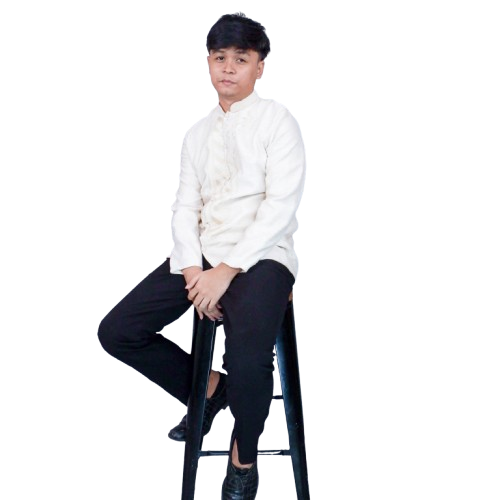
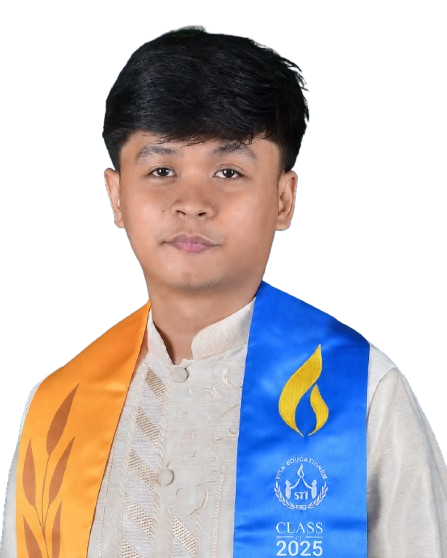
Updated title, projects, experience

diff --git a/app/components/contact-modal.vue b/app/components/contact-modal.vue
@@ -1,0 +1,161 @@
+<template>
+    <Teleport to="body">
+        <Transition name="modal">
+            <div v-if="open" class="fixed inset-0 z-[60] flex items-center justify-center p-4 sm:p-6" role="dialog"
+                aria-modal="true" aria-label="Contact details">
+                <!-- backdrop -->
+                <div class="absolute inset-0 bg-ink/30 backdrop-blur-md" @click="$emit('close')"></div>
+
+                <!-- panel -->
+                <div
+                    class="modal-panel relative w-full max-w-md overflow-hidden rounded-card border border-g200 bg-bg shadow-modal">
+                    <!-- header -->
+                    <div class="relative flex items-center justify-between gap-3 border-b border-g200 px-5 py-3">
+                        <div class="halftone pointer-events-none absolute inset-y-0 right-0 w-40 opacity-60"></div>
+
+                        <div class="relative flex items-center gap-2.5">
+                            <span class="pulse-dot h-1.5 w-1.5 rounded-full bg-ink"></span>
+                            <div class="flex flex-col leading-none">
+                                <span class="font-mono text-[9px] uppercase tracking-micro text-g400">get in
+                                    touch</span>
+                                <span class="mt-1 font-mono text-[11px] text-ink">Jonhyl Balsamo</span>
+                            </div>
+                        </div>
+
+                        <button type="button" aria-label="Close" @click="$emit('close')"
+                            class="relative flex h-7 w-7 items-center justify-center rounded-full bg-ink text-bg transition-opacity hover:opacity-80">✕</button>
+                    </div>
+
+                    <!-- body -->
+                    <div class="px-5 py-5">
+                        <p class="max-w-sm font-montserrat text-sm leading-[1.7] text-g500">
+                            Happy to talk about a role, a project, or a build. Reach me at either of these —
+                            I usually reply within a day.
+                        </p>
+
+                        <ul class="mt-6 space-y-3">
+                            <!-- email -->
+                            <li
+                                class="group flex items-center justify-between gap-3 rounded-input border border-g200 px-4 py-3 transition-colors hover:border-g300">
+                                <div class="min-w-0">
+                                    <span
+                                        class="block font-mono text-[9px] uppercase tracking-micro text-g400">email</span>
+                                    <a :href="`mailto:${email}`"
+                                        class="link-underline mt-1 block truncate font-mono text-[13px] text-ink">
+                                        {{ email }}
+                                    </a>
+                                </div>
+                                <button type="button" @click="copyEmail"
+                                    class="shrink-0 rounded-full border border-g200 px-3 py-1.5 font-mono text-[10px] uppercase tracking-micro text-g500 transition-colors hover:border-g300 hover:text-ink">
+                                    {{ copied ? 'copied' : 'copy' }}
+                                </button>
+                            </li>
+
+                            <!-- linkedin -->
+                            <li
+                                class="group flex items-center justify-between gap-3 rounded-input border border-g200 px-4 py-3 transition-colors hover:border-g300">
+                                <div class="min-w-0">
+                                    <span
+                                        class="block font-mono text-[9px] uppercase tracking-micro text-g400">linkedin</span>
+                                    <span class="mt-1 block truncate font-mono text-[13px] text-ink">
+                                        in/jonhyl-balsamo
+                                    </span>
+                                </div>
+                                <a :href="linkedin" target="_blank" rel="noopener noreferrer"
+                                    class="shrink-0 inline-flex items-center gap-1.5 rounded-full bg-ink px-3.5 py-1.5 font-mono text-[10px] uppercase tracking-micro text-bg transition-opacity hover:opacity-80">
+                                    open <span class="transition-transform">↗</span>
+                                </a>
+                            </li>
+                        </ul>
+                    </div>
+
+                    <!-- footer -->
+                    <div class="flex items-center justify-between gap-3 border-t border-g200 px-5 py-2.5">
+                        <span class="font-mono text-[9px] uppercase tracking-micro text-g400">open to work</span>
+                        <span
+                            class="hidden items-center gap-1.5 font-mono text-[9px] uppercase tracking-micro text-g400 sm:flex">
+                            <kbd class="rounded border border-g200 bg-g50 px-1.5 py-0.5 text-ink">esc</kbd> to close
+                        </span>
+                    </div>
+                </div>
+            </div>
+        </Transition>
+    </Teleport>
+</template>
+
+<script setup lang="ts">
+import { ref, watch, onUnmounted } from 'vue'
+
+const props = defineProps<{ open: boolean }>()
+const emit = defineEmits<{ close: [] }>()
+
+const email = 'balsthedeveloper@gmail.com'
+const linkedin = 'https://www.linkedin.com/in/jonhyl-balsamo-b41a93386'
+
+const copied = ref(false)
+let copyTimer: ReturnType<typeof setTimeout> | undefined
+
+const copyEmail = async () => {
+    try {
+        await navigator.clipboard.writeText(email)
+        copied.value = true
+        clearTimeout(copyTimer)
+        copyTimer = setTimeout(() => { copied.value = false }, 1600)
+    } catch {
+        // clipboard blocked (insecure context / permission) — the mailto link
+        // beside this button still works, so fail quietly
+    }
+}
+
+const onKeydown = (e: KeyboardEvent) => {
+    if (e.key === 'Escape') emit('close')
+}
+
+watch(() => props.open, (isOpen) => {
+    document.body.style.overflow = isOpen ? 'hidden' : ''
+    if (isOpen) {
+        window.addEventListener('keydown', onKeydown)
+    } else {
+        window.removeEventListener('keydown', onKeydown)
+        copied.value = false
+    }
+})
+
+onUnmounted(() => {
+    document.body.style.overflow = ''
+    window.removeEventListener('keydown', onKeydown)
+    clearTimeout(copyTimer)
+})
+</script>
+
+<style scoped>
+.modal-enter-active,
+.modal-leave-active {
+    transition: opacity 200ms ease;
+}
+
+.modal-enter-active .modal-panel,
+.modal-leave-active .modal-panel {
+    transition: transform 200ms cubic-bezier(0.16, 1, 0.3, 1);
+}
+
+.modal-enter-from,
+.modal-leave-to {
+    opacity: 0;
+}
+
+.modal-enter-from .modal-panel,
+.modal-leave-to .modal-panel {
+    transform: scale(0.95);
+}
+
+@media (prefers-reduced-motion: reduce) {
+
+    .modal-enter-active,
+    .modal-leave-active,
+    .modal-enter-active .modal-panel,
+    .modal-leave-active .modal-panel {
+        transition: none;
+    }
+}
+</style>

diff --git a/app/components/projects.vue b/app/components/projects.vue
@@ -110,16 +110,16 @@ const views = [
 ];
 
 const projects = [
-    { id: 1, title: 'Chade Inanag', description: 'A warm, appetite-stirring landing page for a beloved restaurant in Valencia, Bukidnon, built to make every visitor crave a seat at the table.', image: '/chadeinanag.jpg' },
-    { id: 2, title: 'GAB Matcha Bar', description: 'A calm, earthy landing page for a matcha bar in Valencia, Bukidnon, designed to feel as smooth and grounded as the drinks they serve.', image: '/gabmatcha.jpg' },
-    { id: 3, title: 'DC Cakes', description: 'A sweet, playful landing page for a cake shop in Bukidnon. Colorful, cheerful, and ready to turn browsers into buyers.', image: '/dccakes.jpg' },
-    { id: 4, title: 'Home Meals by Raf & Nika', description: 'A homey landing page for a Panabo City catering business, capturing the comfort of home-cooked meals served with love.', image: '/homemeals.jpg' },
-    { id: 5, title: 'Uni Lux', description: 'A bold, elegant landing page for a Metro Manila luxury bag brand. Minimal, refined, and built to elevate the product.', image: '/unilux.jpg' },
-    { id: 6, title: 'XNY Events & Food Services', description: 'A vibrant landing page for a Davao events and catering business, designed to turn special days into unforgettable ones.', image: '/xny.jpg' },
-    { id: 7, title: 'Lead Generation Specialist Portfolio', description: 'A sharp, conversion-focused portfolio for a lead-gen pro, showcasing the funnels, results, and strategy that drive real business growth.', image: '/leadgeneration.png' },
-    { id: 8, title: 'E-Voting System', description: 'A secure digital voting platform that swaps paper ballots for clean, transparent, and tamper-resistant elections, built for trust at scale.', image: '/evotingimg.png' },
-    { id: 9, title: 'Obiyen', description: 'Obiyen brings together essential business tools in one platform. Manage cookies, monitor SEO rankings, analyze websites and track performance across your digital channels - all from your mobile device.', image: '/obiyen.webp' },
-    { id: 10, title: 'Flexperience', description: 'My capstone project. A unified fitness platform connecting gym owners, trainers, and members, built to make managing workouts and clients feel effortless.', award: 'Best Capstone of the Year', image: '/flexperience.png' }
+    { id: 1, title: 'Goodstart International', description: 'A landing page website study-abroad consultancy business based in Davao City.', image: '/goodstart.png' },
+    { id: 2, title: 'Laagan Gear Rental', description: 'A landing page for an outdoor and hiking gear rental business based in Davao City.', image: '/laagan-gear-rental.jpg' },
+    { id: 3, title: 'Home Meals by Raf & Nika', description: 'A homey landing page for a Panabo City catering business.', image: '/homemeals.png' },
+    { id: 4, title: 'Flexperience', description: 'My capstone project. A unified fitness platform connecting gym owners, trainers, and members, built to make managing workouts and clients feel effortless.', award: 'Best Capstone of the Year', image: '/flexperience.png' },
+    { id: 5, title: 'Chade Inanag', description: 'A warm, appetite-stirring landing page for a beloved restaurant in Valencia, Bukidnon, built to make every visitor crave a seat at the table.', image: '/chadeinanag.jpg' },
+    { id: 6, title: 'GAB Matcha Bar', description: 'A calm, earthy landing page for a matcha bar in Valencia, Bukidnon, designed to feel as smooth and grounded as the drinks they serve.', image: '/gabmatcha.jpg' },
+    { id: 7, title: 'DC Cakes', description: 'A sweet, playful landing page for a cake shop in Bukidnon. Colorful, cheerful, and ready to turn browsers into buyers.', image: '/dccakes.jpg' },
+    { id: 8, title: 'Uni Lux', description: 'A bold, elegant landing page for a Metro Manila luxury bag brand. Minimal, refined, and built to elevate the product.', image: '/unilux.jpg' },
+    { id: 9, title: 'XNY Events & Food Services', description: 'A vibrant landing page for a Davao events and catering business, designed to turn special days into unforgettable ones.', image: '/xny.jpg' },
+    { id: 10, title: 'Obiyen', description: 'Obiyen brings together essential business tools in one platform. Manage cookies, monitor SEO rankings, analyze websites and track performance across your digital channels - all from your mobile device.', image: '/obiyen.webp' },
 ];
 
 // Linear carousel: viewed cards stack to the LEFT, upcoming to the RIGHT.

diff --git a/server/utils/portfolio.ts b/server/utils/portfolio.ts
@@ -22,9 +22,11 @@ using only the information below.
 # Jonhyl Balsamo, profile
 
 - Full name: Jonhyl Balsamo (goes by JJ)
-- Role: Full-Stack Web Developer
+- Role: Full-Stack Web/Mobile & AI Developer
 - Summary: A full-stack developer building production SaaS platforms, from
-  responsive front-end interfaces to the APIs and databases behind them.
+  responsive front-end interfaces to the APIs and databases behind them, plus
+  the LLM/AI features layered on top, from chat assistants to AI-driven
+  workflows.
 - Based in the Philippines (Davao region); works for a Danish company remotely.
 - Contact / links:
   - GitHub: https://github.com/bals04
@@ -41,6 +43,13 @@ Responsible for integrating backend functionality with the frontend, and for
 designing and developing intuitive, user-friendly interfaces to ensure a
 seamless user experience.
 Technologies: Laravel, Nuxt.js, MySQL.
+
+## UI/UX Developer (Part-time), Caremed Healthcare Group, United Kingdom (December 2025, remote)
+A part-time, remote side role improving the overall UI/UX of Caremed's
+established Shopify website. Refined layouts, visual consistency, and user
+flows, and fixed UI issues across the storefront for a cleaner, more usable
+shopping experience.
+Technologies: Shopify, Liquid, CSS.
 
 ## Front-End Web Developer Intern, AWORK, Denmark (January 2025 – June 2025)
 Assisted in building and enhancing the CitizenOne website using Nuxt.js,
@@ -73,12 +82,13 @@ capstone project excellence.
 6. **XNY Events & Food Services**: A vibrant landing page for a Davao events
    and catering business, designed to turn special days into unforgettable
    ones.
-7. **Lead Generation Specialist Portfolio**: A sharp, conversion-focused
-   portfolio for a lead-gen pro, showcasing the funnels, results, and strategy
-   that drive real business growth.
-8. **E-Voting System**: A secure digital voting platform that swaps paper
-   ballots for clean, transparent, and tamper-resistant elections, built for
-   trust at scale.
+7. **Laagan Gear Rental**: A landing page for an outdoor and hiking gear
+   rental business based in Davao.
+8. **Goodstart International**: A calm, reassuring site for Goodstart
+   International, a Davao City career consultancy and student-visa firm. It
+   walks aspiring students from a free consultation through course matching,
+   documents, and visa applications, to studying in Australia, New Zealand,
+   Europe, the USA, or Canada.
 9. **Flexperience**: Jonhyl's capstone project, and winner of **Best Capstone
    of the Year**. A unified fitness platform connecting gym owners, trainers,
    and members, built to make managing workouts and clients feel effortless.
@@ -102,7 +112,7 @@ who keeps Jonhyl lifting, and **VEEH**, a buzzing bee watching over his wallet.
 - **Backend:** Node.js, Express, Prisma, MySQL, Socket.IO, Supabase.
   (Also works with Laravel/PHP at AWORK.)
 - **Tools & others:** Git, VS Code, Postman, Thunder Client, Figma, Shopify.
-- **AI tools he uses day to day:** Claude Code, Codex.
+- **AI tools he uses day to day:** Claude Code, Codex, Hugging Face.
 
 # How to answer
 

diff --git a/app/components/experience.vue b/app/components/experience.vue
@@ -24,6 +24,11 @@
                             {{ exp.date }}
                         </span>
 
+                        <span v-if="exp.tag"
+                            class="ml-2 inline-block rounded-full border border-g300 px-3 py-1 font-mono text-[9px] uppercase tracking-micro text-g500">
+                            {{ exp.tag }}
+                        </span>
+
                         <div class="mt-4 flex items-center gap-3">
                             <div class="flex h-9 w-9 items-center justify-center overflow-hidden rounded-sm2 border border-g200 bg-white">
                                 <img :src="exp.logo" alt="" class="h-full w-full object-contain p-1" />
@@ -60,7 +65,8 @@ const currentMonthYear = new Date().toLocaleString('en-US', { month: 'long', yea
 const experiences = [
     {
         id: 1,
-        date: `June 2025 - June 2026`,
+        tag: '',
+        date: `June 2025 - August 2026`,
         title: 'Front-End Web Developer — AWORK, Denmark',
         logo: '/awork-logo.png',
         description: 'Assigned as the frontend developer for Obiyen, a business SaaS platform. I am responsible for integrating backend functionality with the frontend, while designing and developing intuitive, user-friendly interfaces to ensure a seamless user experience.',
@@ -71,7 +77,21 @@ const experiences = [
         ]
     },
     {
+        id: 4,
+        date: 'December 2025',
+        tag: 'Part-time',
+        title: 'UI/UX Developer — Caremed Healthcare Group, United Kingdom',
+        logo: 'https://cdn.simpleicons.org/shopify/95BF47',
+        description: 'Part-time role improving the overall UI/UX of an established Shopify website. Refined layouts, visual consistency, and user flows, and fixed UI issues across the storefront to deliver a cleaner, more usable shopping experience.',
+        technologies: [
+            { name: 'Shopify', icon: 'https://cdn.simpleicons.org/shopify/95BF47' },
+            { name: 'Liquid', icon: 'https://cdn.simpleicons.org/shopify/95BF47' },
+            { name: 'CSS3', icon: 'https://cdn.jsdelivr.net/gh/devicons/devicon/icons/css3/css3-original.svg' }
+        ]
+    },
+    {
         id: 2,
+        tag: '',
         date: 'January 2025 - June 2025',
         title: 'Front-End Web Developer Intern — AWORK, Denmark',
         logo: '/awork-logo.png',
@@ -84,6 +104,7 @@ const experiences = [
     },
     {
         id: 3,
+        tag: '',
         date: 'July 2025',
         title: 'BS Information Technology — STI College of Davao',
         logo: '/sti-logo.png',

diff --git a/app/components/hero.vue b/app/components/hero.vue
@@ -12,23 +12,24 @@
 
                     <p class="reveal mt-5 font-montserrat text-lg md:text-xl font-normal tracking-wide text-ink"
                         :class="{ in: shown }" style="animation-delay: 120ms">
-                        Full-Stack Web/Mobile Developer
+                        Full-Stack Web/Mobile &amp; AI Developer
                     </p>
 
                     <p class="reveal mt-8 max-w-md font-montserrat text-base leading-[1.7] text-g500"
                         :class="{ in: shown }" style="animation-delay: 190ms">
                         A full-stack developer building production SaaS platforms, from responsive
-                        front-end interfaces to the APIs and databases behind them.
+                        front-end interfaces to the APIs and databases behind them, plus the
+                        LLM/AI features layered on top, from chat assistants to AI-driven workflows.
                     </p>
 
                     <div class="reveal mt-10 flex flex-wrap items-center gap-6" :class="{ in: shown }"
                         style="animation-delay: 260ms">
                         <!-- inverted chips — the loud pair -->
                         <div class="flex items-center gap-3">
-                            <a href="https://facebook.com/jj.balsamo"
+                            <button type="button" @click="contactOpen = true"
                                 class="inline-flex items-center rounded-input bg-ink px-4 py-2.5 font-mono text-xs text-bg transition-opacity hover:opacity-80">
                                 Schedule a call
-                            </a>
+                            </button>
 
                             <button type="button" @click="resumeOpen = true"
                                 class="inline-flex items-center rounded-input bg-ink px-4 py-2.5 font-mono text-xs text-bg transition-opacity hover:opacity-80">
@@ -61,6 +62,7 @@
         </div>
 
         <ResumeModal :open="resumeOpen" @close="resumeOpen = false" />
+        <ContactModal :open="contactOpen" @close="contactOpen = false" />
     </section>
 </template>
 
@@ -69,6 +71,7 @@ import { onMounted, ref } from 'vue'
 
 const shown = ref(false)
 const resumeOpen = ref(false)
+const contactOpen = ref(false)
 
 const socials = [
     {

diff --git a/app/components/tech-stack.vue b/app/components/tech-stack.vue
@@ -55,7 +55,7 @@ const categories = [
             { name: "React", icon: "https://cdn.jsdelivr.net/gh/devicons/devicon/icons/react/react-original.svg" },
             { name: "React Native", icon: "https://cdn.jsdelivr.net/gh/devicons/devicon/icons/react/react-original.svg" },
             { name: "Expo", icon: "https://cdn.jsdelivr.net/gh/devicons/devicon@latest/icons/expo/expo-original.svg", invertDark: true },
-            { name: "React Navigation", icon: "https://cdn.jsdelivr.net/gh/devicons/devicon@latest/icons/reactnavigation/reactnavigation-original.svg" },
+            { name: "Flutter", icon: "https://cdn.jsdelivr.net/gh/devicons/devicon/icons/flutter/flutter-original.svg" },
             { name: "Next.js", icon: "https://cdn.jsdelivr.net/gh/devicons/devicon/icons/nextjs/nextjs-original.svg", invertDark: true },
             { name: "JavaScript", icon: "https://cdn.jsdelivr.net/gh/devicons/devicon/icons/javascript/javascript-original.svg" },
             { name: "TypeScript", icon: "https://cdn.jsdelivr.net/gh/devicons/devicon/icons/typescript/typescript-original.svg" },
@@ -89,13 +89,14 @@ const categories = [
         items: [
             { name: "Claude Code", icon: "https://unpkg.com/@lobehub/icons-static-svg@latest/icons/claude-color.svg" },
             { name: "Codex", icon: "https://unpkg.com/@lobehub/icons-static-svg@latest/icons/openai.svg", invertDark: true },
+            { name: "Hugging Face", icon: "https://unpkg.com/@lobehub/icons-static-svg@latest/icons/huggingface-color.svg" },
         ]
     }
 ]
 
 // Pick a column count that divides the item count evenly so every row is
-// full — no empty cells. Groups of 6 stay 3-wide; the 2-item AI group is
-// 2-wide. Falls back to 3 for anything not cleanly divisible.
+// full — no empty cells. Groups of 6 stay 3-wide; the 3-item AI group is
+// 3-wide too. Falls back to 3 for anything not cleanly divisible.
 const colsFor = (count) => (count % 3 === 0 ? 3 : count % 2 === 0 ? 2 : 3)
 
 const handleScroll = () => {

diff --git a/app/components/typing-test.vue b/app/components/typing-test.vue
@@ -4,7 +4,7 @@
          and a second solid pill of equal weight would split that attention.
          The offsets track the chat launcher's own bottom-24 / sm:bottom-6 plus
          its height, so the two read as one stack. -->
-    <div v-if="!open" class="fixed bottom-[9.5rem] right-4 z-[55] sm:bottom-[5rem] sm:right-6">
+    <div v-if="!open" class="hidden fixed bottom-[9.5rem] right-4 z-[55] md:block sm:bottom-[5rem] sm:right-6">
         <button type="button" @click="openTest" aria-label="Open typing test"
             class="flex items-center gap-2 rounded-full border border-g200 bg-bg py-2.5 pl-3 pr-4 text-ink shadow-soft transition-all duration-[350ms] ease-[cubic-bezier(0.16,1,0.3,1)] hover:-translate-y-0.5 hover:border-ink">
             <svg viewBox="0 0 24 24" fill="none" stroke="currentColor" stroke-width="1.8" stroke-linecap="round"
@@ -20,7 +20,7 @@
 
     <Teleport to="body">
         <Transition name="veil">
-            <div v-if="open" class="fixed inset-0 z-[70]" role="dialog" aria-modal="true" aria-label="Typing test">
+            <div v-if="open" class="hidden fixed inset-0 z-[70] md:block" role="dialog" aria-modal="true" aria-label="Typing test">
 
                 <!-- Same frosted paper as the chat overlay, so the two feel like
                      rooms in one building rather than two visual languages. -->
